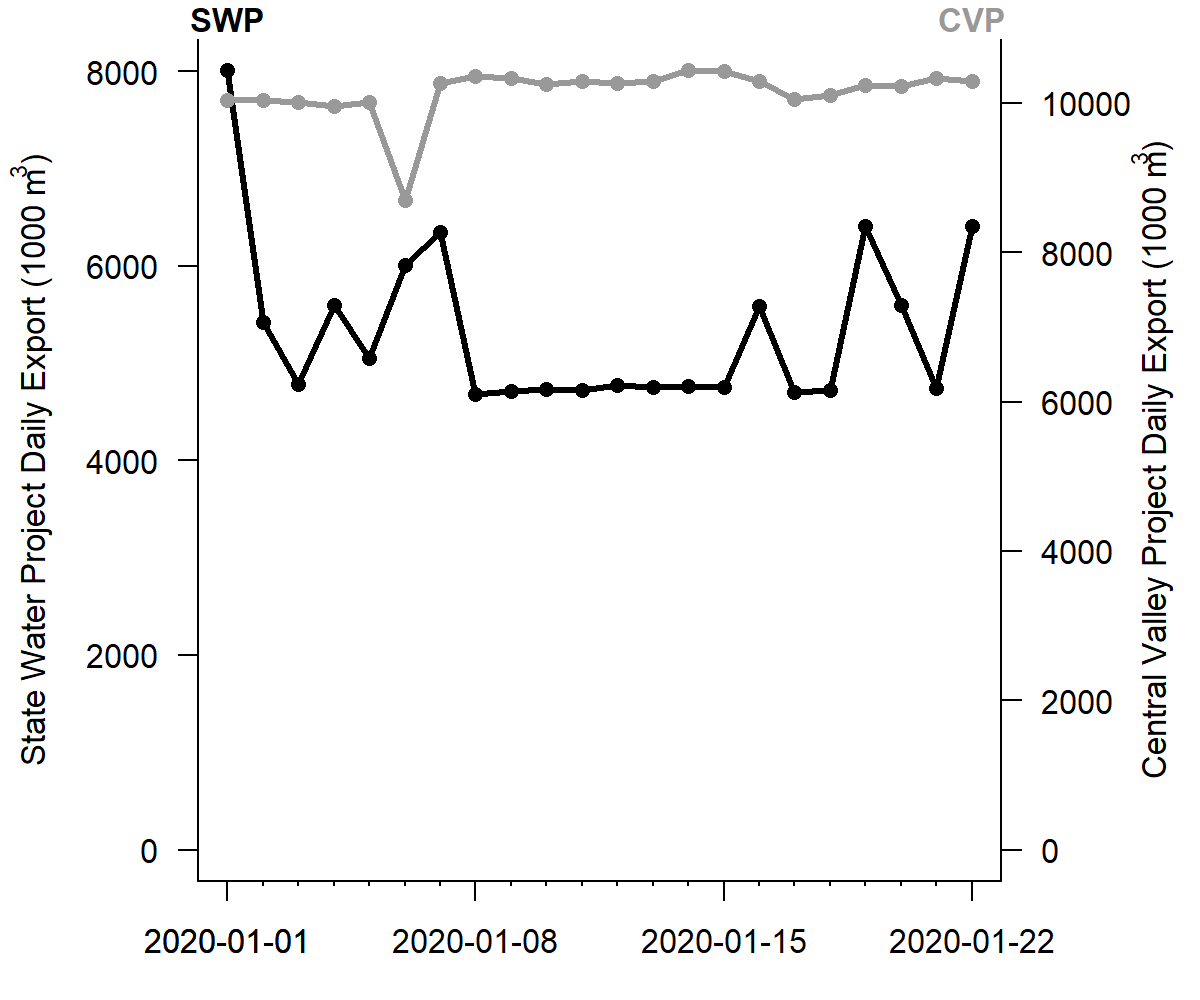
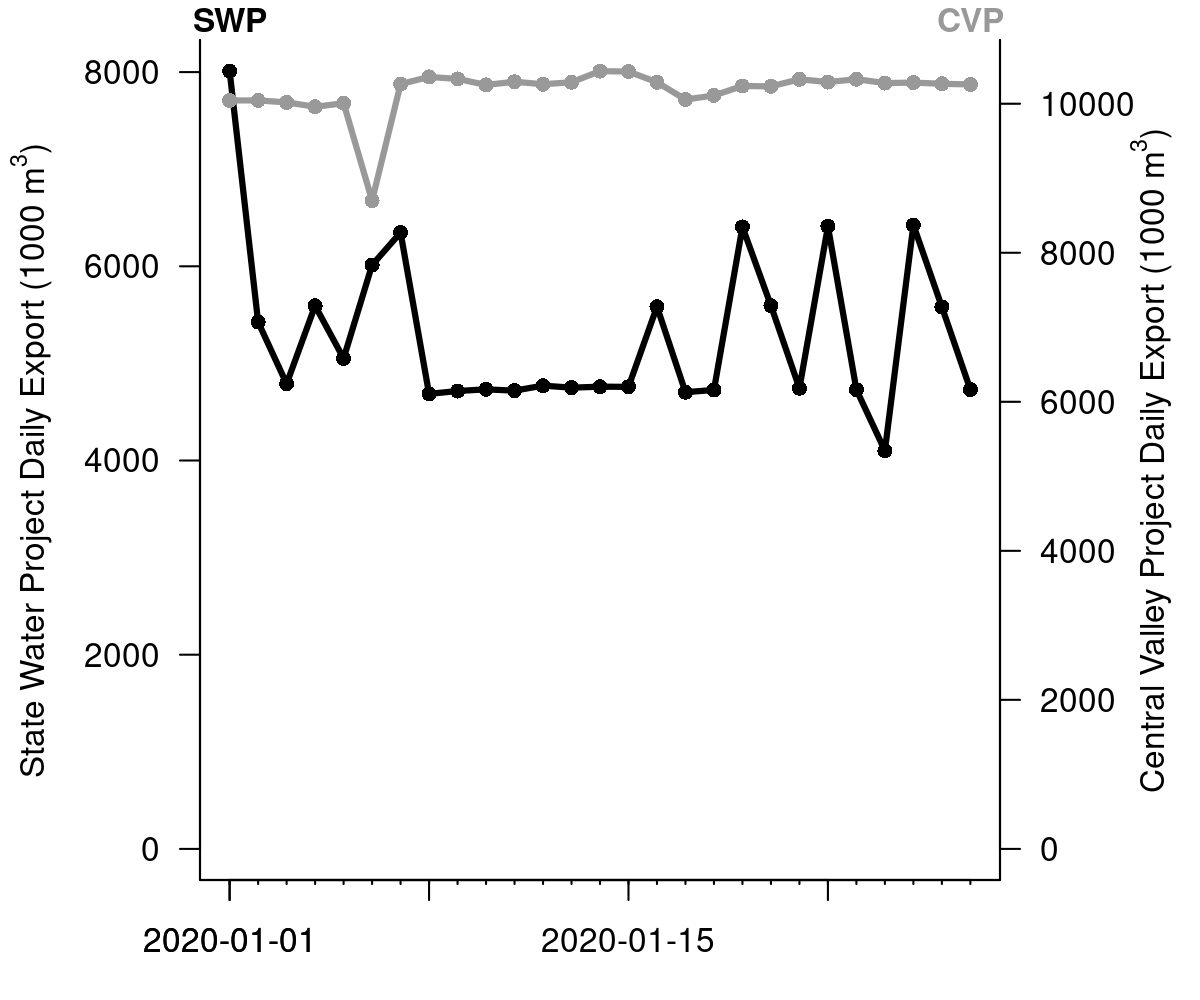
0-11-0
ack caught that placeholder i missed, hance why it was stuck on 1/22

diff --git a/site/docs/summary.html b/site/docs/summary.html
@@ -11,7 +11,7 @@
 
 <meta name="author" content="Juniper L. Simonis" />
 
-<meta name="date" content="2020-01-28" />
+<meta name="date" content="2020-01-29" />
 
 <title>Salvage Data Summary</title>
 
@@ -382,7 +382,7 @@ div.tocify {
 
 <h1 class="title toc-ignore">Salvage Data Summary</h1>
 <h4 class="author">Juniper L. Simonis</h4>
-<h4 class="date">January 28, 2020</h4>
+<h4 class="date">January 29, 2020</h4>
 
 </div>
 
@@ -400,7 +400,7 @@ div.tocify {
 <p class="caption">Delta salvage facilities exported volumes.</p>
 </div>
 <p><br></p>
-<p>The most recent salvage samples posted to the FTP from the State Water Project and Central Valley Project were collected on <strong>January 22, 2020</strong>.</p>
+<p>The most recent salvage samples posted to the FTP from the State Water Project and Central Valley Project were collected on <strong>January 27, 2020</strong>.</p>
 <p><code>.csv</code>s of the Salvage database files are available in the <a href="https://github.com/dapperstats/salvage/tree/master/data/Salvage_data_FTP">salvage GitHub repository</a>.</p>
 <p><br> <br></p>
 </div>

diff --git a/site/docs/methods.html b/site/docs/methods.html
@@ -11,7 +11,7 @@
 
 <meta name="author" content="Juniper L. Simonis" />
 
-<meta name="date" content="2020-01-28" />
+<meta name="date" content="2020-01-29" />
 
 <title>Salvage Data Methods</title>
 
@@ -472,7 +472,7 @@ div.tocify {
 
 <h1 class="title toc-ignore">Salvage Data Methods</h1>
 <h4 class="author">Juniper L. Simonis</h4>
-<h4 class="date">January 28, 2020</h4>
+<h4 class="date">January 29, 2020</h4>
 
 </div>
 
